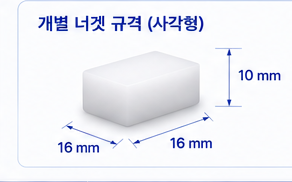
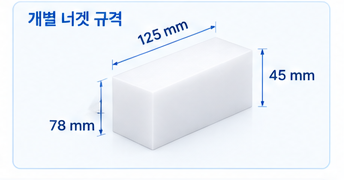
드라이아이스 개별 너겟 규격 도해를 실제 치수(125×78×45mm) 이미지로 교체

diff --git a/products-ice.html b/products-ice.html
@@ -222,7 +222,7 @@
             <p class="specpanel__desc">빠른 냉각과 다양한 산업현장에서 사용하기 편리한 펠릿 / 너겟 형태의 드라이아이스</p>
             <div class="icespec-figs">
               <div class="icespec-figs__photo"><img src="assets/images/site/ice-nugget.jpg?v=20260710" alt="너겟(펠릿) 드라이아이스" loading="lazy"></div>
-              <figure class="icespec-figs__dim"><img src="assets/images/site/icespec/dim-nugget.png?v=20260829" alt="개별 너겟 규격 16×16×10mm" loading="lazy"></figure>
+              <figure class="icespec-figs__dim"><img src="assets/images/site/icespec/dim-nugget.png?v=20260829b" alt="개별 너겟 규격 125×78×45mm" loading="lazy"></figure>
             </div>
             <table class="specrows specrows--cols">
               <thead><tr><th>순도</th><th>밀도(예시)</th><th>형태</th><th>특징</th></tr></thead>
